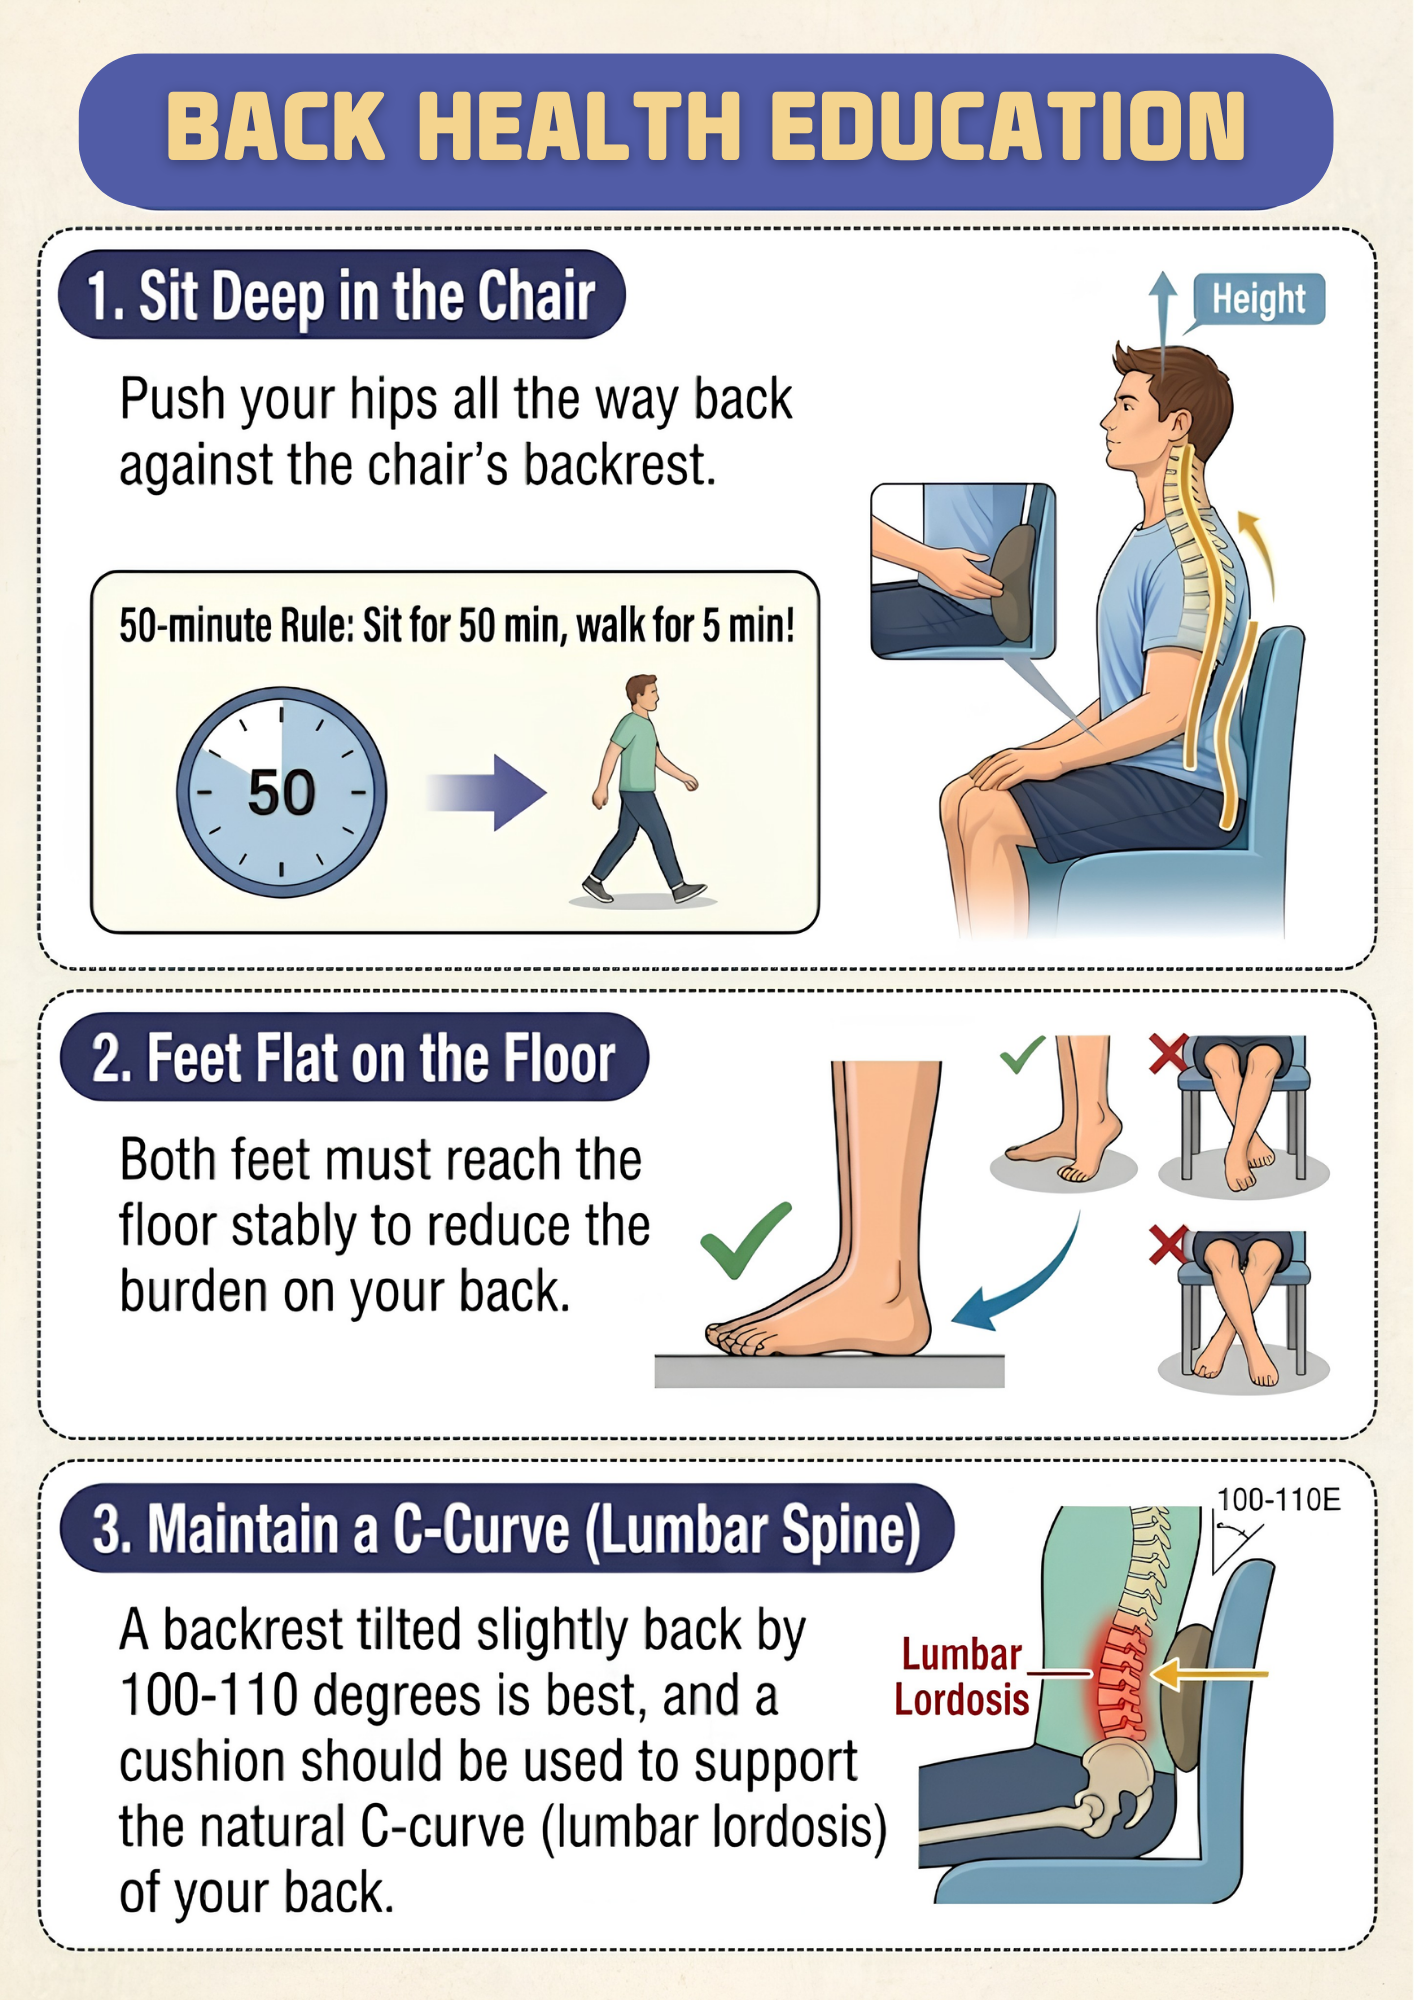
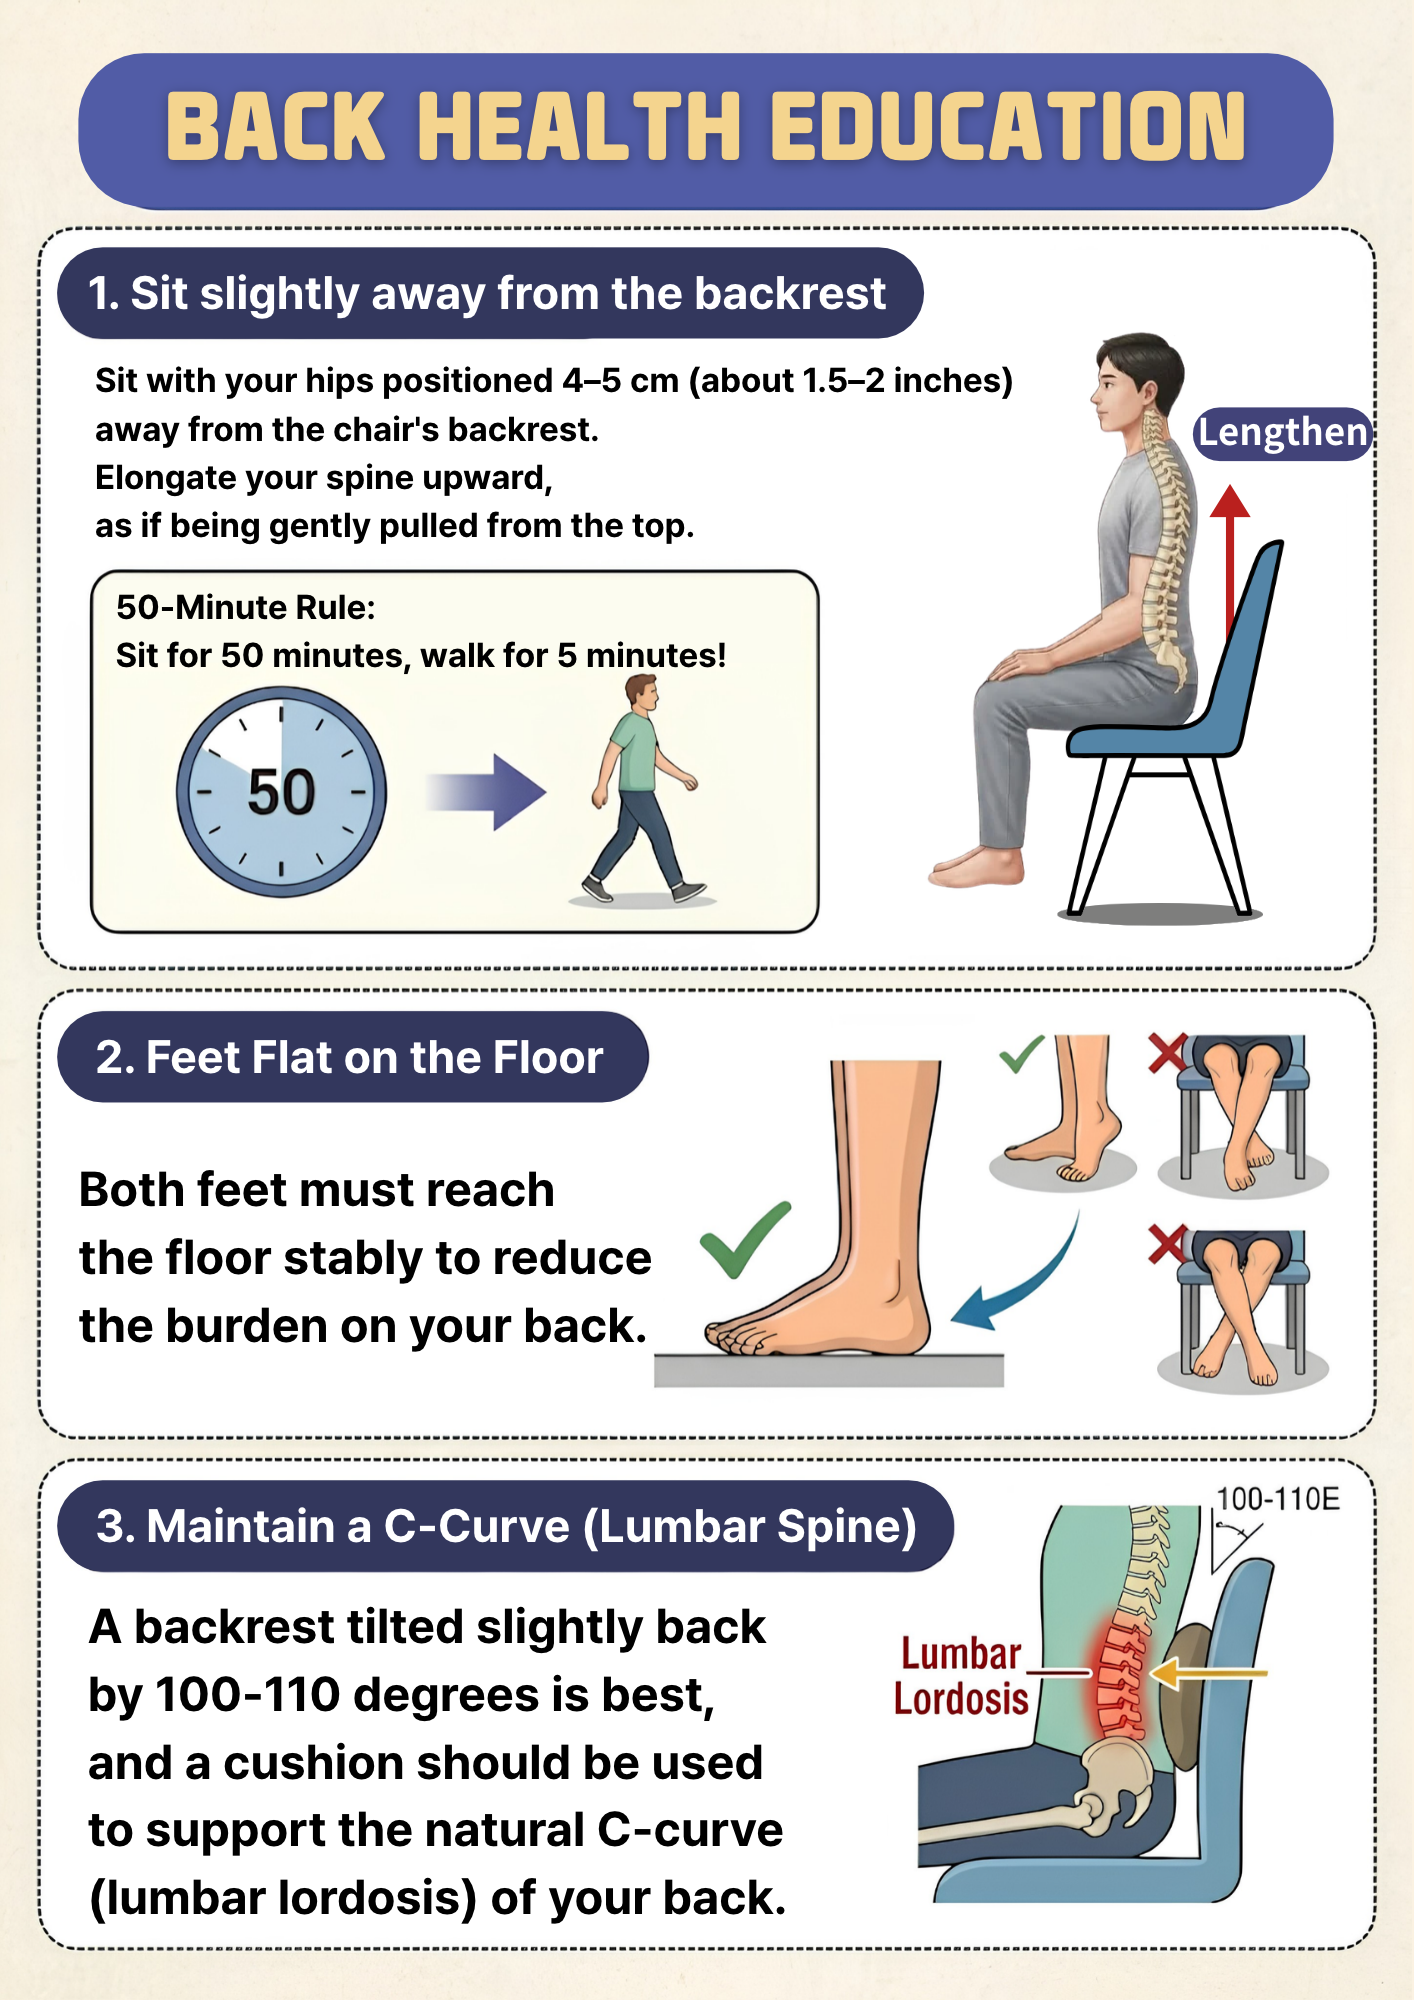
fix: 허리 위생교육 (1) 영문판 갱신
en/허리 위생교육.png 를 한글판과 같은 내용(등받이·발바닥·C자 커브)의
영문 이미지로 교체했다. 이로써 허리 위생교육 첫 장은 한/영 모두 새 버전이다.

같은 파일명 교체이므로 BANNER_VER 20261005b -> 20261005c 로 올렸다.

diff --git a/js/i18n.js b/js/i18n.js
@@ -5,7 +5,7 @@
    ───────────────────────────────────────────── */
 
 /* 배너 캐시 버전: 배너 이미지를 같은 파일명으로 교체할 때마다 이 값을 올린다. */
-const BANNER_VER = '20261005b';
+const BANNER_VER = '20261005c';
 
 const translationMap = {
   ko: {
